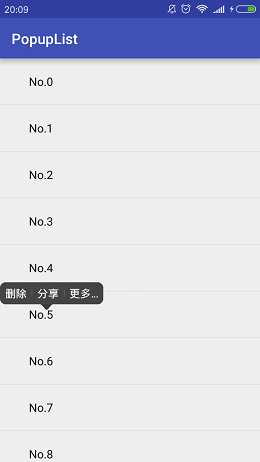
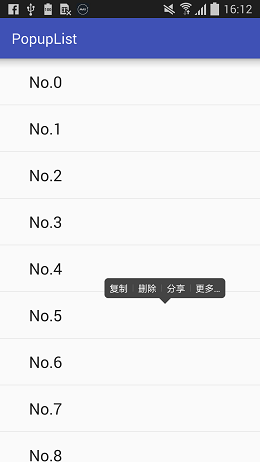
optimize configuration

diff --git a/library/PopupList.java b/library/PopupList.java
@@ -3,8 +3,13 @@ package com.frank.popuplist;
 import android.app.Activity;
 import android.content.Context;
 import android.content.res.ColorStateList;
+import android.graphics.Canvas;
 import android.graphics.Color;
+import android.graphics.ColorFilter;
+import android.graphics.Paint;
+import android.graphics.Path;
 import android.graphics.drawable.BitmapDrawable;
+import android.graphics.drawable.Drawable;
 import android.graphics.drawable.GradientDrawable;
 import android.graphics.drawable.StateListDrawable;
 import android.util.DisplayMetrics;
@@ -15,6 +20,7 @@ import android.view.View;
 import android.view.WindowManager;
 import android.widget.AbsListView;
 import android.widget.AdapterView;
+import android.widget.ImageView;
 import android.widget.LinearLayout;
 import android.widget.PopupWindow;
 import android.widget.TextView;
@@ -29,13 +35,17 @@ public class PopupList {
 
     private static final int DEFAULT_NORMAL_TEXT_COLOR = Color.WHITE;
     private static final int DEFAULT_PRESSED_TEXT_COLOR = Color.WHITE;
-    private static final float DEFAULT_TEXT_SIZE_PIXEL = 30;
+    private static final float DEFAULT_TEXT_SIZE_PIXEL = 40;
+    private static final float DEFAULT_TEXT_PADDING_LEFT_PIXEL = 20;
+    private static final float DEFAULT_TEXT_PADDING_TOP_PIXEL = 16;
+    private static final float DEFAULT_TEXT_PADDING_RIGHT_PIXEL = 20;
+    private static final float DEFAULT_TEXT_PADDING_BOTTOM_PIXEL = 16;
     private static final int DEFAULT_NORMAL_BACKGROUND_COLOR = 0xFF444444;
     private static final int DEFAULT_PRESSED_BACKGROUND_COLOR = 0xFF777777;
     private static final int DEFAULT_BACKGROUND_RADIUS_PIXEL = 16;
     private static final int DEFAULT_DIVIDER_COLOR = 0xFF888888;
     private static final int DEFAULT_DIVIDER_WIDTH_PIXEL = 1;
-    private static final int DEFAULT_DIVIDER_HEIGHT_PIXEL = 20;
+    private static final int DEFAULT_DIVIDER_HEIGHT_PIXEL = 30;
 
     private Context mContext;
     private PopupWindow mPopupWindow;
@@ -48,7 +58,6 @@ public class PopupList {
     private float mRawX;
     private float mRawY;
     private StateListDrawable mLeftItemBackground;
-    private StateListDrawable mCenterItemBackground;
     private StateListDrawable mRightItemBackground;
     private StateListDrawable mCornerItemBackground;
     private ColorStateList mTextColorStateList;
@@ -61,6 +70,10 @@ public class PopupList {
     private int mNormalTextColor;
     private int mPressedTextColor;
     private float mTextSizePixel;
+    private float mTextPaddingLeftPixel;
+    private float mTextPaddingTopPixel;
+    private float mTextPaddingRightPixel;
+    private float mTextPaddingBottomPixel;
     private int mNormalBackgroundColor;
     private int mPressedBackgroundColor;
     private int mBackgroundCornerRadiusPixel;
@@ -72,6 +85,10 @@ public class PopupList {
         this.mNormalTextColor = DEFAULT_NORMAL_TEXT_COLOR;
         this.mPressedTextColor = DEFAULT_PRESSED_TEXT_COLOR;
         this.mTextSizePixel = DEFAULT_TEXT_SIZE_PIXEL;
+        this.mTextPaddingLeftPixel = DEFAULT_TEXT_PADDING_LEFT_PIXEL;
+        this.mTextPaddingTopPixel = DEFAULT_TEXT_PADDING_TOP_PIXEL;
+        this.mTextPaddingRightPixel = DEFAULT_TEXT_PADDING_RIGHT_PIXEL;
+        this.mTextPaddingBottomPixel = DEFAULT_TEXT_PADDING_BOTTOM_PIXEL;
         this.mNormalBackgroundColor = DEFAULT_NORMAL_BACKGROUND_COLOR;
         this.mPressedBackgroundColor = DEFAULT_PRESSED_BACKGROUND_COLOR;
         this.mBackgroundCornerRadiusPixel = DEFAULT_BACKGROUND_RADIUS_PIXEL;
@@ -208,6 +225,7 @@ public class PopupList {
             float marginLeftScreenEdge = mRawX;
             float marginRightScreenEdge = mScreenWidth - mRawX;
             if (marginLeftScreenEdge < mPopupWindowWidth / 2f) {
+                // in case of the draw of indicator out of Screen's bounds
                 if (marginLeftScreenEdge < mIndicatorWidth / 2f + mBackgroundCornerRadiusPixel) {
                     mIndicatorView.setTranslationX(mIndicatorWidth / 2f + mBackgroundCornerRadiusPixel - mPopupWindowWidth / 2f);
                 } else {
@@ -247,8 +265,6 @@ public class PopupList {
         mLeftItemBackground = new StateListDrawable();
         mLeftItemBackground.addState(new int[]{android.R.attr.state_pressed}, leftItemPressedDrawable);
         mLeftItemBackground.addState(new int[]{}, leftItemNormalDrawable);
-        // center
-        mCenterItemBackground = getCenterItemBackground();
         // right
         GradientDrawable rightItemPressedDrawable = new GradientDrawable();
         rightItemPressedDrawable.setColor(mPressedBackgroundColor);
@@ -350,6 +366,52 @@ public class PopupList {
         return mIndicatorView;
     }
 
+    public View getDefaultIndicatorView(final float widthPixel, final float heightPixel,
+                                        final int color) {
+        ImageView indicator = new ImageView(mContext);
+        Drawable drawable = new Drawable() {
+            @Override
+            public void draw(Canvas canvas) {
+                Path path = new Path();
+                Paint paint = new Paint();
+                paint.setColor(color);
+                paint.setStyle(Paint.Style.FILL);
+                path.moveTo(0f, 0f);
+                path.lineTo(widthPixel, 0f);
+                path.lineTo(widthPixel / 2, heightPixel);
+                path.close();
+                canvas.drawPath(path, paint);
+            }
+
+            @Override
+            public void setAlpha(int alpha) {
+
+            }
+
+            @Override
+            public void setColorFilter(ColorFilter colorFilter) {
+
+            }
+
+            @Override
+            public int getOpacity() {
+                return 0;
+            }
+
+            @Override
+            public int getIntrinsicWidth() {
+                return (int) widthPixel;
+            }
+
+            @Override
+            public int getIntrinsicHeight() {
+                return (int) heightPixel;
+            }
+        };
+        indicator.setImageDrawable(drawable);
+        return indicator;
+    }
+
     public void setIndicatorView(View indicatorView) {
         this.mIndicatorView = indicatorView;
     }
@@ -388,6 +450,38 @@ public class PopupList {
 
     public void setTextSizePixel(float textSizePixel) {
         this.mTextSizePixel = textSizePixel;
+    }
+
+    public float getTextPaddingLeftPixel() {
+        return mTextPaddingLeftPixel;
+    }
+
+    public void setTextPaddingLeftPixel(float textPaddingLeftPixel) {
+        this.mTextPaddingLeftPixel = textPaddingLeftPixel;
+    }
+
+    public float getTextPaddingTopPixel() {
+        return mTextPaddingTopPixel;
+    }
+
+    public void setTextPaddingTopPixel(float textPaddingTopPixel) {
+        this.mTextPaddingTopPixel = textPaddingTopPixel;
+    }
+
+    public float getTextPaddingRightPixel() {
+        return mTextPaddingRightPixel;
+    }
+
+    public void setTextPaddingRightPixel(float textPaddingRightPixel) {
+        this.mTextPaddingRightPixel = textPaddingRightPixel;
+    }
+
+    public float getTextPaddingBottomPixel() {
+        return mTextPaddingBottomPixel;
+    }
+
+    public void setTextPaddingBottomPixel(float textPaddingBottomPixel) {
+        this.mTextPaddingBottomPixel = textPaddingBottomPixel;
     }
 
     public int getNormalBackgroundColor() {

diff --git a/samples/src/main/java/com/frank/popuplist/PopupList.java b/samples/src/main/java/com/frank/popuplist/PopupList.java
@@ -3,8 +3,13 @@ package com.frank.popuplist;
 import android.app.Activity;
 import android.content.Context;
 import android.content.res.ColorStateList;
+import android.graphics.Canvas;
 import android.graphics.Color;
+import android.graphics.ColorFilter;
+import android.graphics.Paint;
+import android.graphics.Path;
 import android.graphics.drawable.BitmapDrawable;
+import android.graphics.drawable.Drawable;
 import android.graphics.drawable.GradientDrawable;
 import android.graphics.drawable.StateListDrawable;
 import android.util.DisplayMetrics;
@@ -15,6 +20,7 @@ import android.view.View;
 import android.view.WindowManager;
 import android.widget.AbsListView;
 import android.widget.AdapterView;
+import android.widget.ImageView;
 import android.widget.LinearLayout;
 import android.widget.PopupWindow;
 import android.widget.TextView;
@@ -29,13 +35,17 @@ public class PopupList {
 
     private static final int DEFAULT_NORMAL_TEXT_COLOR = Color.WHITE;
     private static final int DEFAULT_PRESSED_TEXT_COLOR = Color.WHITE;
-    private static final float DEFAULT_TEXT_SIZE_PIXEL = 30;
+    private static final float DEFAULT_TEXT_SIZE_PIXEL = 40;
+    private static final float DEFAULT_TEXT_PADDING_LEFT_PIXEL = 20;
+    private static final float DEFAULT_TEXT_PADDING_TOP_PIXEL = 16;
+    private static final float DEFAULT_TEXT_PADDING_RIGHT_PIXEL = 20;
+    private static final float DEFAULT_TEXT_PADDING_BOTTOM_PIXEL = 16;
     private static final int DEFAULT_NORMAL_BACKGROUND_COLOR = 0xFF444444;
     private static final int DEFAULT_PRESSED_BACKGROUND_COLOR = 0xFF777777;
     private static final int DEFAULT_BACKGROUND_RADIUS_PIXEL = 16;
     private static final int DEFAULT_DIVIDER_COLOR = 0xFF888888;
     private static final int DEFAULT_DIVIDER_WIDTH_PIXEL = 1;
-    private static final int DEFAULT_DIVIDER_HEIGHT_PIXEL = 20;
+    private static final int DEFAULT_DIVIDER_HEIGHT_PIXEL = 30;
 
     private Context mContext;
     private PopupWindow mPopupWindow;
@@ -48,7 +58,6 @@ public class PopupList {
     private float mRawX;
     private float mRawY;
     private StateListDrawable mLeftItemBackground;
-    private StateListDrawable mCenterItemBackground;
     private StateListDrawable mRightItemBackground;
     private StateListDrawable mCornerItemBackground;
     private ColorStateList mTextColorStateList;
@@ -61,6 +70,10 @@ public class PopupList {
     private int mNormalTextColor;
     private int mPressedTextColor;
     private float mTextSizePixel;
+    private float mTextPaddingLeftPixel;
+    private float mTextPaddingTopPixel;
+    private float mTextPaddingRightPixel;
+    private float mTextPaddingBottomPixel;
     private int mNormalBackgroundColor;
     private int mPressedBackgroundColor;
     private int mBackgroundCornerRadiusPixel;
@@ -72,6 +85,10 @@ public class PopupList {
         this.mNormalTextColor = DEFAULT_NORMAL_TEXT_COLOR;
         this.mPressedTextColor = DEFAULT_PRESSED_TEXT_COLOR;
         this.mTextSizePixel = DEFAULT_TEXT_SIZE_PIXEL;
+        this.mTextPaddingLeftPixel = DEFAULT_TEXT_PADDING_LEFT_PIXEL;
+        this.mTextPaddingTopPixel = DEFAULT_TEXT_PADDING_TOP_PIXEL;
+        this.mTextPaddingRightPixel = DEFAULT_TEXT_PADDING_RIGHT_PIXEL;
+        this.mTextPaddingBottomPixel = DEFAULT_TEXT_PADDING_BOTTOM_PIXEL;
         this.mNormalBackgroundColor = DEFAULT_NORMAL_BACKGROUND_COLOR;
         this.mPressedBackgroundColor = DEFAULT_PRESSED_BACKGROUND_COLOR;
         this.mBackgroundCornerRadiusPixel = DEFAULT_BACKGROUND_RADIUS_PIXEL;
@@ -208,6 +225,7 @@ public class PopupList {
             float marginLeftScreenEdge = mRawX;
             float marginRightScreenEdge = mScreenWidth - mRawX;
             if (marginLeftScreenEdge < mPopupWindowWidth / 2f) {
+                // in case of the draw of indicator out of Screen's bounds
                 if (marginLeftScreenEdge < mIndicatorWidth / 2f + mBackgroundCornerRadiusPixel) {
                     mIndicatorView.setTranslationX(mIndicatorWidth / 2f + mBackgroundCornerRadiusPixel - mPopupWindowWidth / 2f);
                 } else {
@@ -247,8 +265,6 @@ public class PopupList {
         mLeftItemBackground = new StateListDrawable();
         mLeftItemBackground.addState(new int[]{android.R.attr.state_pressed}, leftItemPressedDrawable);
         mLeftItemBackground.addState(new int[]{}, leftItemNormalDrawable);
-        // center
-        mCenterItemBackground = getCenterItemBackground();
         // right
         GradientDrawable rightItemPressedDrawable = new GradientDrawable();
         rightItemPressedDrawable.setColor(mPressedBackgroundColor);
@@ -350,6 +366,52 @@ public class PopupList {
         return mIndicatorView;
     }
 
+    public View getDefaultIndicatorView(final float widthPixel, final float heightPixel,
+                                        final int color) {
+        ImageView indicator = new ImageView(mContext);
+        Drawable drawable = new Drawable() {
+            @Override
+            public void draw(Canvas canvas) {
+                Path path = new Path();
+                Paint paint = new Paint();
+                paint.setColor(color);
+                paint.setStyle(Paint.Style.FILL);
+                path.moveTo(0f, 0f);
+                path.lineTo(widthPixel, 0f);
+                path.lineTo(widthPixel / 2, heightPixel);
+                path.close();
+                canvas.drawPath(path, paint);
+            }
+
+            @Override
+            public void setAlpha(int alpha) {
+
+            }
+
+            @Override
+            public void setColorFilter(ColorFilter colorFilter) {
+
+            }
+
+            @Override
+            public int getOpacity() {
+                return 0;
+            }
+
+            @Override
+            public int getIntrinsicWidth() {
+                return (int) widthPixel;
+            }
+
+            @Override
+            public int getIntrinsicHeight() {
+                return (int) heightPixel;
+            }
+        };
+        indicator.setImageDrawable(drawable);
+        return indicator;
+    }
+
     public void setIndicatorView(View indicatorView) {
         this.mIndicatorView = indicatorView;
     }
@@ -388,6 +450,38 @@ public class PopupList {
 
     public void setTextSizePixel(float textSizePixel) {
         this.mTextSizePixel = textSizePixel;
+    }
+
+    public float getTextPaddingLeftPixel() {
+        return mTextPaddingLeftPixel;
+    }
+
+    public void setTextPaddingLeftPixel(float textPaddingLeftPixel) {
+        this.mTextPaddingLeftPixel = textPaddingLeftPixel;
+    }
+
+    public float getTextPaddingTopPixel() {
+        return mTextPaddingTopPixel;
+    }
+
+    public void setTextPaddingTopPixel(float textPaddingTopPixel) {
+        this.mTextPaddingTopPixel = textPaddingTopPixel;
+    }
+
+    public float getTextPaddingRightPixel() {
+        return mTextPaddingRightPixel;
+    }
+
+    public void setTextPaddingRightPixel(float textPaddingRightPixel) {
+        this.mTextPaddingRightPixel = textPaddingRightPixel;
+    }
+
+    public float getTextPaddingBottomPixel() {
+        return mTextPaddingBottomPixel;
+    }
+
+    public void setTextPaddingBottomPixel(float textPaddingBottomPixel) {
+        this.mTextPaddingBottomPixel = textPaddingBottomPixel;
     }
 
     public int getNormalBackgroundColor() {

diff --git a/samples/src/main/java/com/frank/sample/MainActivity.java b/samples/src/main/java/com/frank/sample/MainActivity.java
@@ -4,7 +4,6 @@ import android.os.Bundle;
 import android.support.v7.app.AppCompatActivity;
 import android.view.View;
 import android.widget.ArrayAdapter;
-import android.widget.ImageView;
 import android.widget.ListView;
 import android.widget.Toast;
 
@@ -40,10 +39,7 @@ public class MainActivity extends AppCompatActivity {
                 Toast.makeText(MainActivity.this, contextPosition + "," + position, Toast.LENGTH_LONG).show();
             }
         });
-        ImageView indicator = new ImageView(this);
-        indicator.setImageResource(R.drawable.popuplist_default_arrow);
-        popupList.setIndicatorView(indicator);
-        popupList.setIndicatorSize(dp2px(16), dp2px(8));
+        popupList.setIndicatorView(popupList.getDefaultIndicatorView(dp2px(16), dp2px(8), 0xFF444444));
         getData();
     }
 
